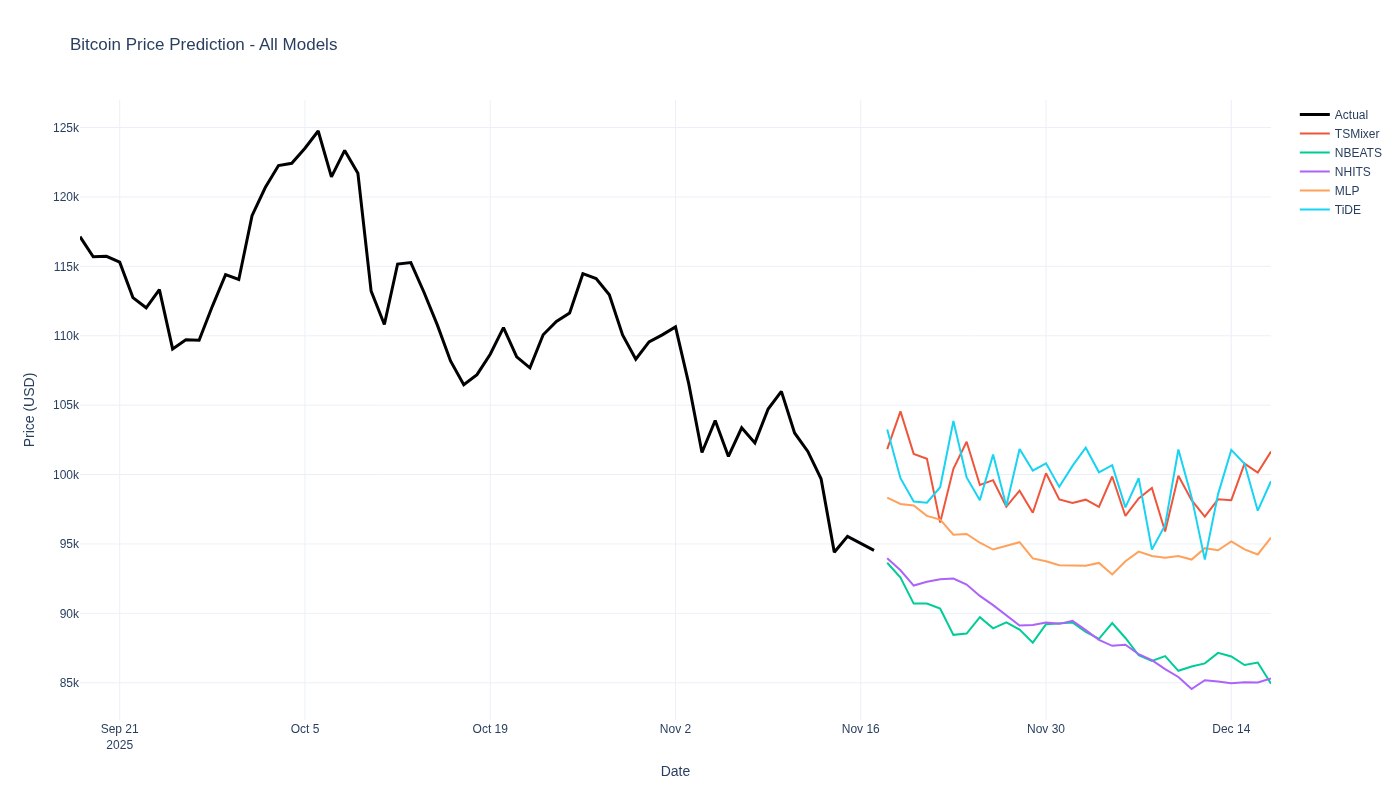
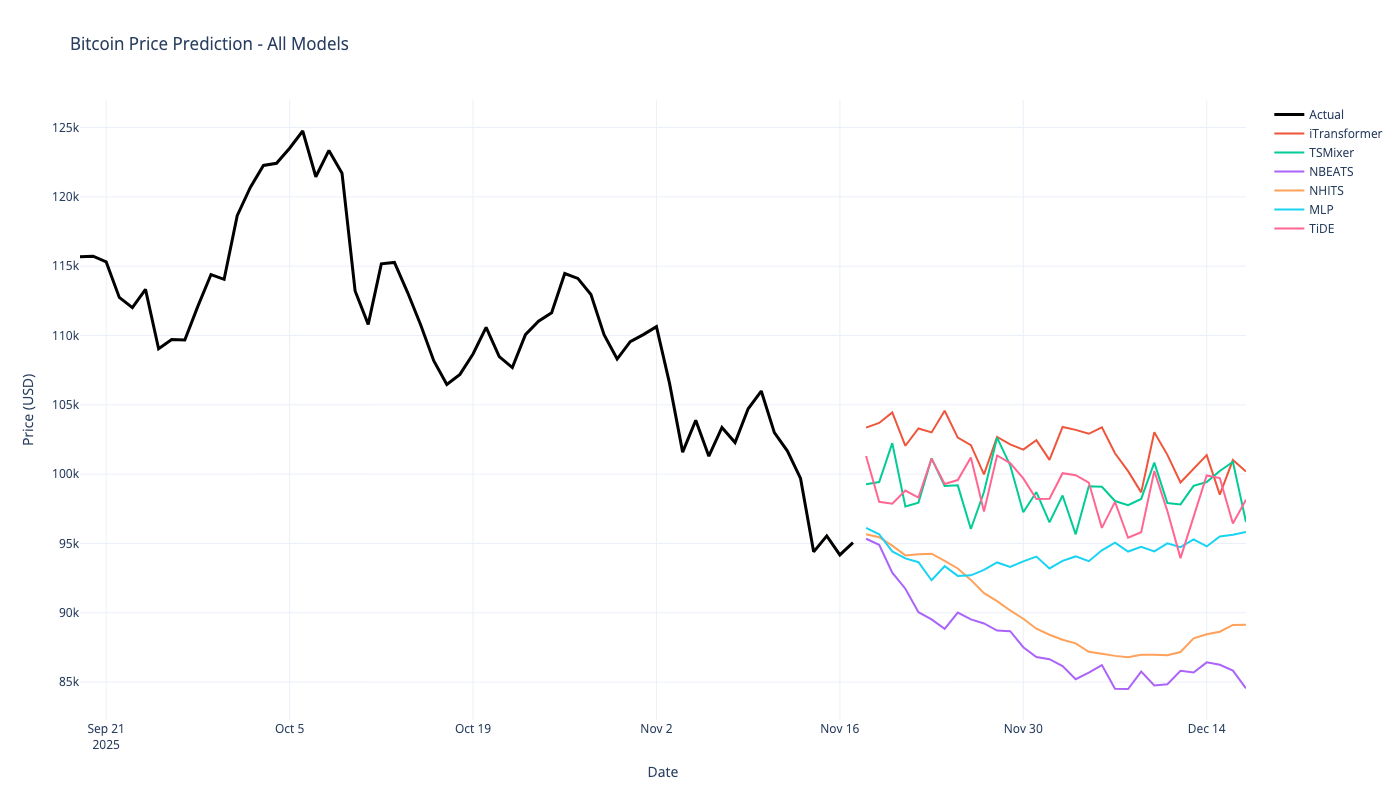
[ADD] add itransformers to btc pred

diff --git a/update_btc.py b/update_btc.py
@@ -1,5 +1,5 @@
 from neuralforecast import NeuralForecast
-from neuralforecast.models import TSMixer, NBEATS, NHITS, MLP, TiDE
+from neuralforecast.models import TSMixer, NBEATS, NHITS, MLP, TiDE, iTransformer
 import yfinance as yf
 import logging
 import plotly.graph_objects as go
@@ -14,6 +14,8 @@ btc_df.insert(0, "unique_id", "1.0")
 horizon = 30
 
 models = [
+    iTransformer(h=horizon, input_size=336, n_series=1, hidden_size=512, n_heads=16, e_layers=6, 
+                 d_ff=1024, max_steps=350, learning_rate=5e-4, scaler_type='robust', batch_size=32),
     TSMixer(h=horizon, n_series=1, input_size=336, n_block=4, ff_dim=512, dropout=0.2,
             revin=True, max_steps=350, learning_rate=5e-4, scaler_type="robust", batch_size=32),
     NBEATS(h=horizon, input_size=336, max_steps=350, learning_rate=1e-3, scaler_type="robust",
@@ -44,7 +46,7 @@ fig.add_trace(go.Scatter(x=recent_data["ds"], y=recent_data["y"],
                          name="Actual", line=dict(color="black", width=3)))
 
 # Add forecasts
-models_list = ["TSMixer", "NBEATS", "NHITS", "MLP", "TiDE"]
+models_list = ["iTransformer", "TSMixer", "NBEATS", "NHITS", "MLP", "TiDE"]
 for model in models_list:
     fig.add_trace(go.Scatter(x=Y_hat_df["ds"], y=Y_hat_df[model], 
                              name=model, line=dict(width=2)))
